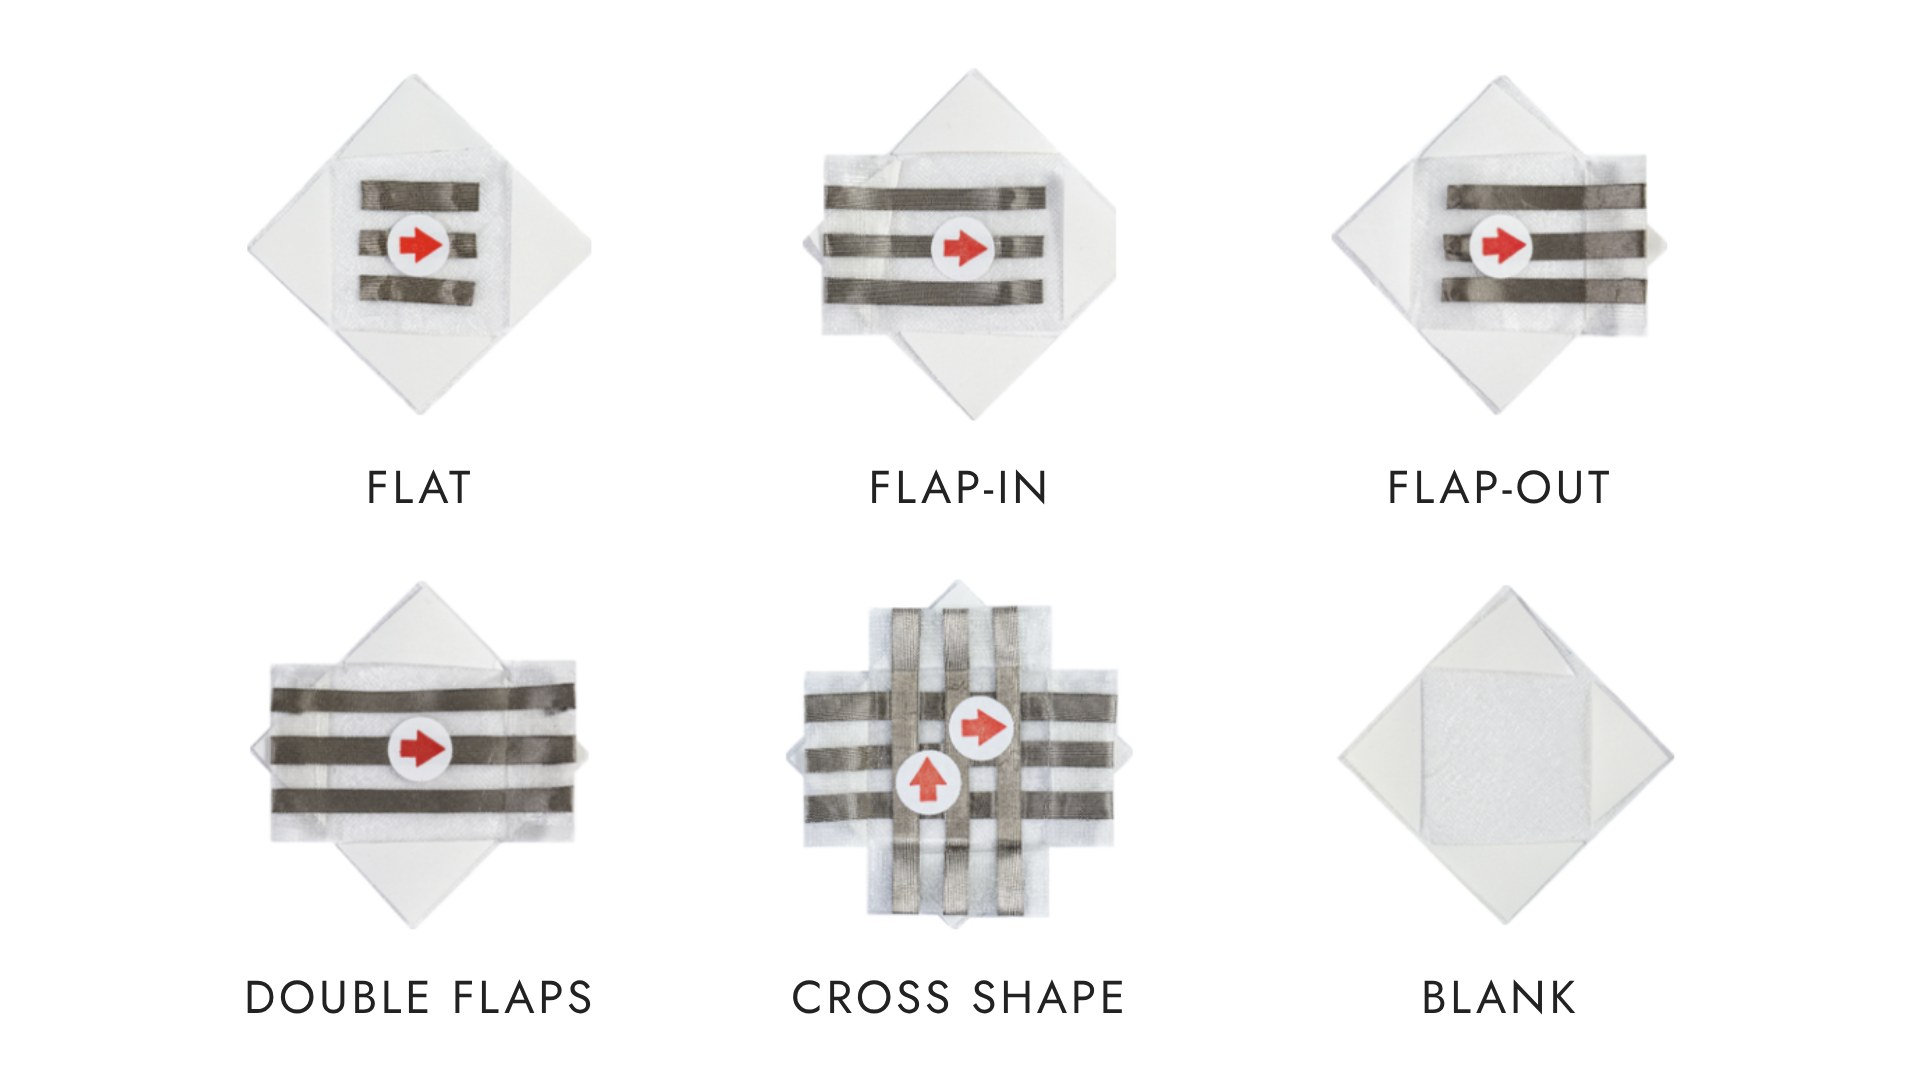
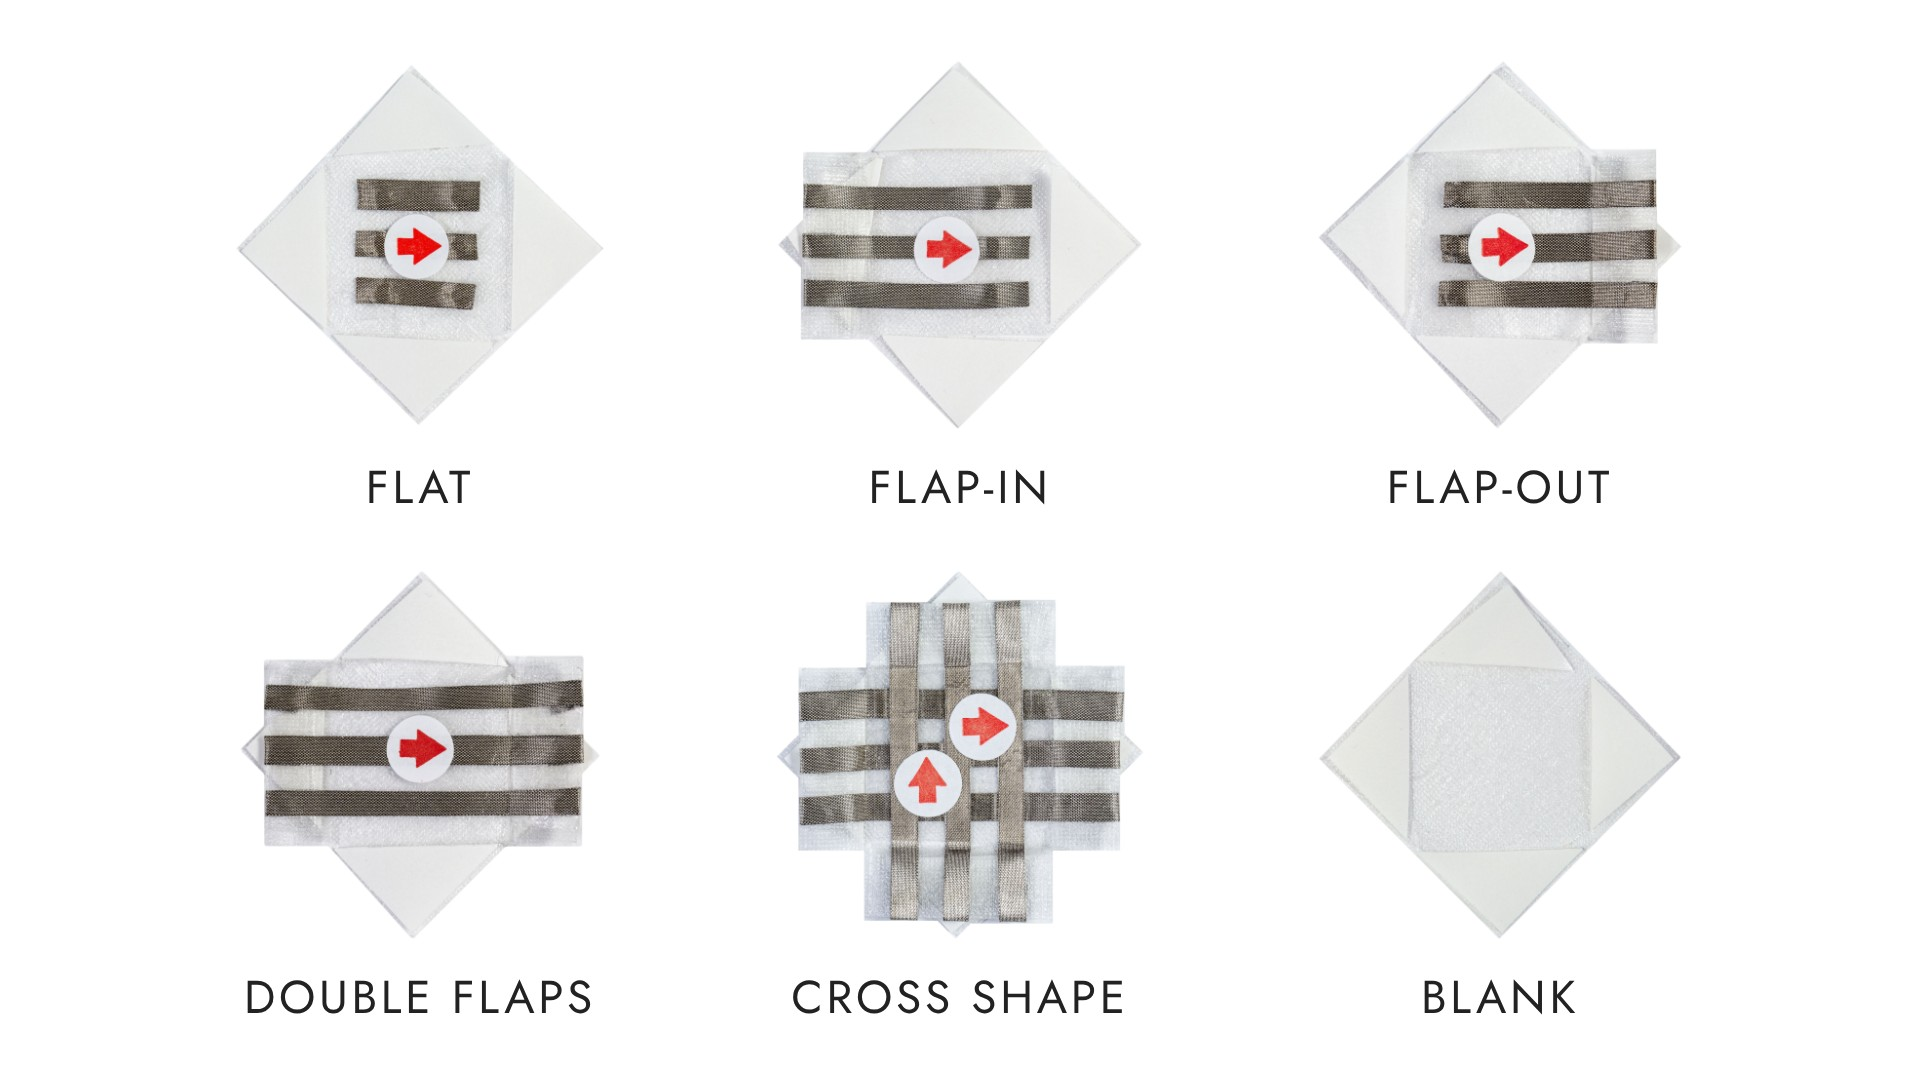
Step 6: sharp module photos and descriptions from the paper (#18)
Rebuild the module-types image from viki's high-res photos (the paper
figure is only 205 px per module) and rewrite each module's description
and the tip from the SkinKit paper (Sec. 3.3-3.4, Fig. 7).

Claude-Session: https://claude.ai/code/session_01WudS16p7TgYV21RbKEWXC7

diff --git a/content.js b/content.js
@@ -175,13 +175,13 @@ window.SKINKIT = {
           { t: 21.2, text: "Let it dry for a few days" }
         ] } },
     { chapter: "m1", shot: "1-04c", title: "Cut it into diamonds", text: "Load the dry skin cloth into an electronic cutting machine and cut it with our cut file, the template for the diamond shape. Every piece then fits the others.", tip: "The diamonds have 4 cm sides and edges that fit into each other like a puzzle.", need: ["Electronic cutting machine"], media: null },
-    { chapter: "m2", shot: "1-05t", title: "Choose the modules you are going to make", text: "Every wire module starts as a skin cloth diamond, but there are a few types. Pick the ones your design needs, and make several of each.", tip: "Not sure yet? Start with a few Flat and Flap-in modules.", choices: [
-        { name: "Flat", text: "Three short lines stay inside the middle square. The slimmest one, for flat spots." },
-        { name: "Flap-in", text: "The lines run onto an extra flap at the input end, behind the arrow. For curved spots." },
-        { name: "Flap-out", text: "Like Flap-in, but the flap is at the output end, where the arrow points." },
-        { name: "Double flaps", text: "Flaps at both ends, with the lines running from one flap to the other." },
-        { name: "Cross shape", text: "Lines run both across and up and down. Turns a corner or splits the circuit in two." },
-        { name: "Blank", text: "Skin cloth only, no lines or magnets. For decoration and filling gaps." }
+    { chapter: "m2", shot: "1-05t", title: "Choose the modules you are going to make", text: "Every wire module starts as a skin cloth diamond. SkinKit has five types of wire module plus a blank one. Pick the ones your design needs, and make several of each.", tip: "The arrow sticker shows which way the signal flows. When you lay the pieces out, keep every arrow following the same direction, from input to output.", choices: [
+        { name: "Flat", text: "No flap. The slimmest connection, for flat, smooth spots on the body." },
+        { name: "Flap-in", text: "Has a flap on the side the arrow comes from. A flap is an extra strip of skin cloth that bends like a hinge, so a circuit module sitting on it stays connected on curvy spots." },
+        { name: "Flap-out", text: "Like Flap-in, but the flap is on the side the arrow points to. Its magnets are flipped to match the signal direction, from input to output." },
+        { name: "Double flaps", text: "A flap on both sides: Flap-in and Flap-out in one piece." },
+        { name: "Cross shape", text: "A four-way piece. Turns the circuit or splits it into two directions." },
+        { name: "Blank", text: "Plain skin cloth with no lines or magnets. For decoration, and to fill out the shape you wear." }
       ], media: { image: "images/1-05t.jpg" } },
     { chapter: "m2", shot: "1-05m", title: "Gather your materials", text: "Now turn the skin cloth into wire modules. Lay out everything below.", materials: "modules", tip: "", media: {
         image: "images/materials-modules.jpg",
